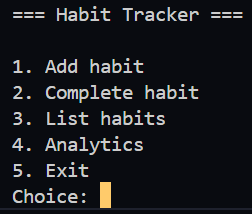
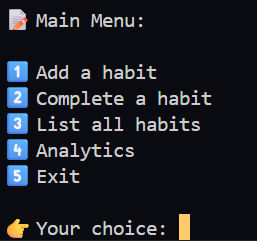
new pics

diff --git a/cli.py b/cli.py
@@ -19,16 +19,16 @@ tracker = HabitTracker()
 
 # Main application loop
 while True:
-    print("\n📊=== Analytics Menu 📊===\n")
+    print("\n===✨ Habit Tracker ✨===\n")
 
-    print("1⃣  List all habits")
-    print("2⃣  List habits by periodicity")
-    print("3⃣  Longest streak (overall)")
-    print("4⃣  Longest streak for a habit")
-    print("5⃣  Back to main menu")
+    print("📝 Main Menu:\n")
+    print("1⃣  Add a habit")
+    print("2⃣  Complete a habit")
+    print("3⃣  List all habits")
+    print("4⃣  Analytics")
+    print("5⃣  Exit\n")
 
     choice = input("👉 Your choice: ")
-
 
     # Add a new habit
     if choice == "1":
@@ -58,7 +58,7 @@ while True:
             print("2⃣  List habits by periodicity 📅")
             print("3⃣  Longest streak (overall) 🔥")
             print("4⃣  Longest streak for a habit ⭐")
-            print("5⃣  Back 🔙")
+            print("5⃣  Back 🔙\n")
 
             sub = input("👉 Your choice: ")
 
